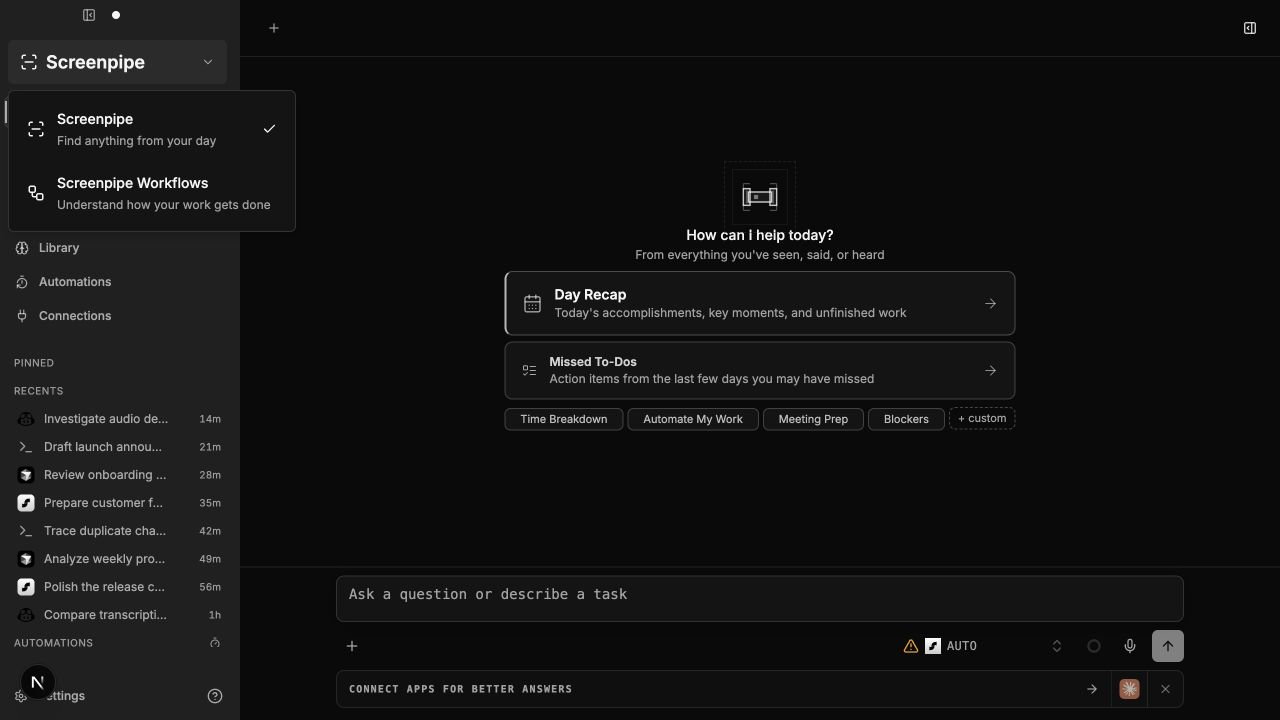
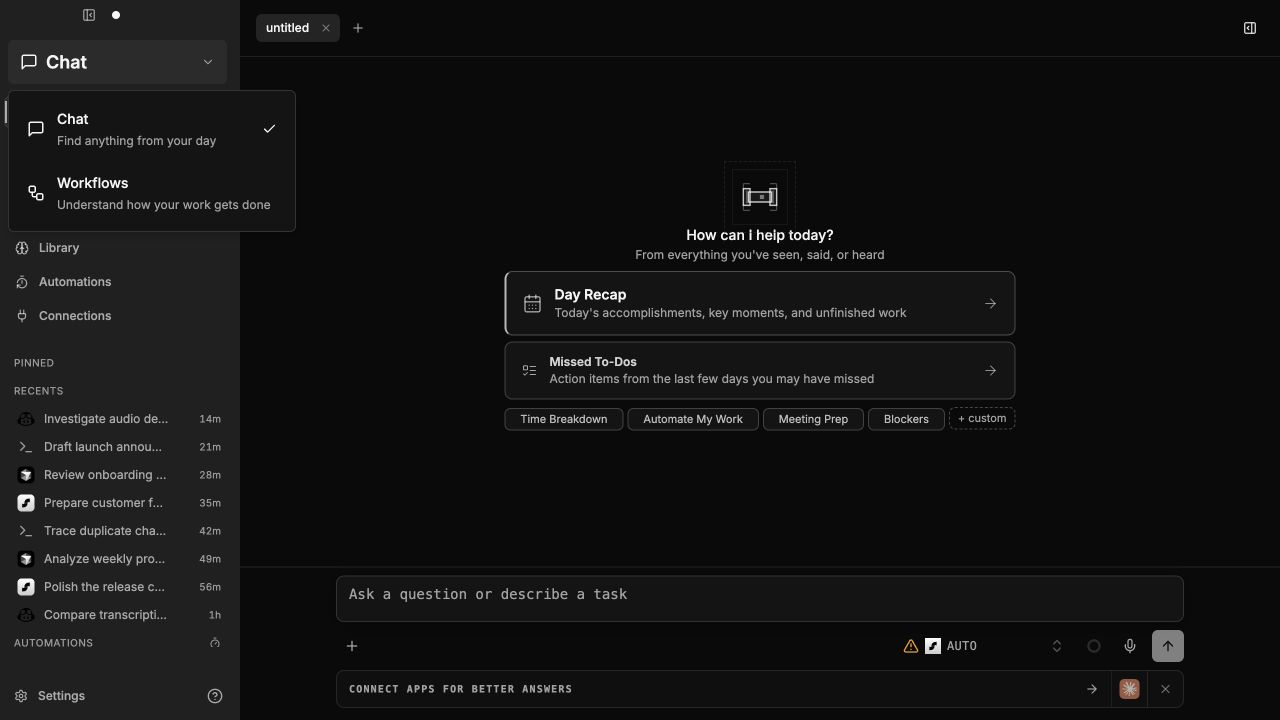
refactor: name Screenpipe workspaces Chat and Workflows

diff --git a/apps/screenpipe-app-tauri/components/workflows/product-switcher.tsx b/apps/screenpipe-app-tauri/components/workflows/product-switcher.tsx
@@ -2,7 +2,7 @@
 // https://screenpipe.com
 "use client";
 
-import { Check, ChevronDown, ScanLine, Workflow } from "lucide-react";
+import { Check, ChevronDown, MessageSquare, Workflow } from "lucide-react";
 import { DropdownMenu, DropdownMenuTrigger, DropdownMenuContent, DropdownMenuItem } from "@/components/ui/dropdown-menu";
 import { cn } from "@/lib/utils";
 
@@ -15,14 +15,14 @@ export function ProductSwitcher({ mode, onChange, compact = false }: {
   return <DropdownMenu>
     <DropdownMenuTrigger asChild>
       <button type="button" aria-label="Switch workspace" className={cn("flex items-center gap-2 rounded-md px-3 py-2 text-inherit hover:bg-foreground/5 focus-visible:outline-none focus-visible:ring-1 focus-visible:ring-ring", compact ? "text-sm" : "w-full text-lg font-semibold")}>
-        {mode === "workflows" ? <Workflow size={18} /> : <ScanLine size={18} />}
-        <span>{mode === "workflows" ? "Workflows" : "Screenpipe"}</span><ChevronDown size={14} className="ml-auto text-muted-foreground" />
+        {mode === "workflows" ? <Workflow size={18} /> : <MessageSquare size={18} />}
+        <span>{mode === "workflows" ? "Workflows" : "Chat"}</span><ChevronDown size={14} className="ml-auto text-muted-foreground" />
       </button>
     </DropdownMenuTrigger>
     <DropdownMenuContent align="start" sideOffset={6} className="w-72 p-1.5" aria-label="Workspaces">
       {([
-        ["screenpipe", ScanLine, "Screenpipe", "Find anything from your day"],
-        ["workflows", Workflow, "Screenpipe Workflows", "Understand how your work gets done"],
+        ["screenpipe", MessageSquare, "Chat", "Find anything from your day"],
+        ["workflows", Workflow, "Workflows", "Understand how your work gets done"],
       ] as const).map(([value, Icon, title, subtitle]) => <DropdownMenuItem key={value} onSelect={() => onChange(value)} className="gap-3 px-3 py-3 cursor-pointer" role="menuitemradio" aria-checked={mode === value}>
         <Icon size={18} className="shrink-0" /><span className="flex-1"><span className="block text-sm font-medium">{title}</span><span className="block mt-1 text-xs text-muted-foreground">{subtitle}</span></span>{mode === value && <Check size={15} />}
       </DropdownMenuItem>)}

diff --git a/.github/pr-assets/workflows-integration/README.md b/.github/pr-assets/workflows-integration/README.md
@@ -13,7 +13,7 @@ Next.js development badge; it was hidden for the subsequent captures.
 | Image | State |
 | --- | --- |
 | 01-before-main.png | Parent main navigation before the workspace menu |
-| 02-workspace-switcher.png | Screenpipe / Screenpipe Workflows menu open |
+| 02-workspace-switcher.png | Chat / Workflows menu open |
 | 03-first-workflow-empty.png | First entry, no catalog yet, explicit build action |
 | 04-workflow-catalog.png | Fictional catalog inside the main application |
 | 05-workflow-and-assistant.png | Workflow detail and fixture assistant response |

diff --git a/apps/screenpipe-app-tauri/README.md b/apps/screenpipe-app-tauri/README.md
@@ -15,7 +15,7 @@ usage documentation is available at [docs.screenpi.pe](https://docs.screenpi.pe/
 
 ## Workflows integration preview
 
-The workspace menu in `/home` switches between Screenpipe and Workflows. In the
+The workspace menu in `/home` switches between Chat and Workflows. In the
 browser-mock build (`bun run dev:web`), Workflows uses synthetic data and its
 build-catalog action does not call the engine or an AI provider. Packaged builds
 use the main app's recorder, account, and app-local workflow storage.
